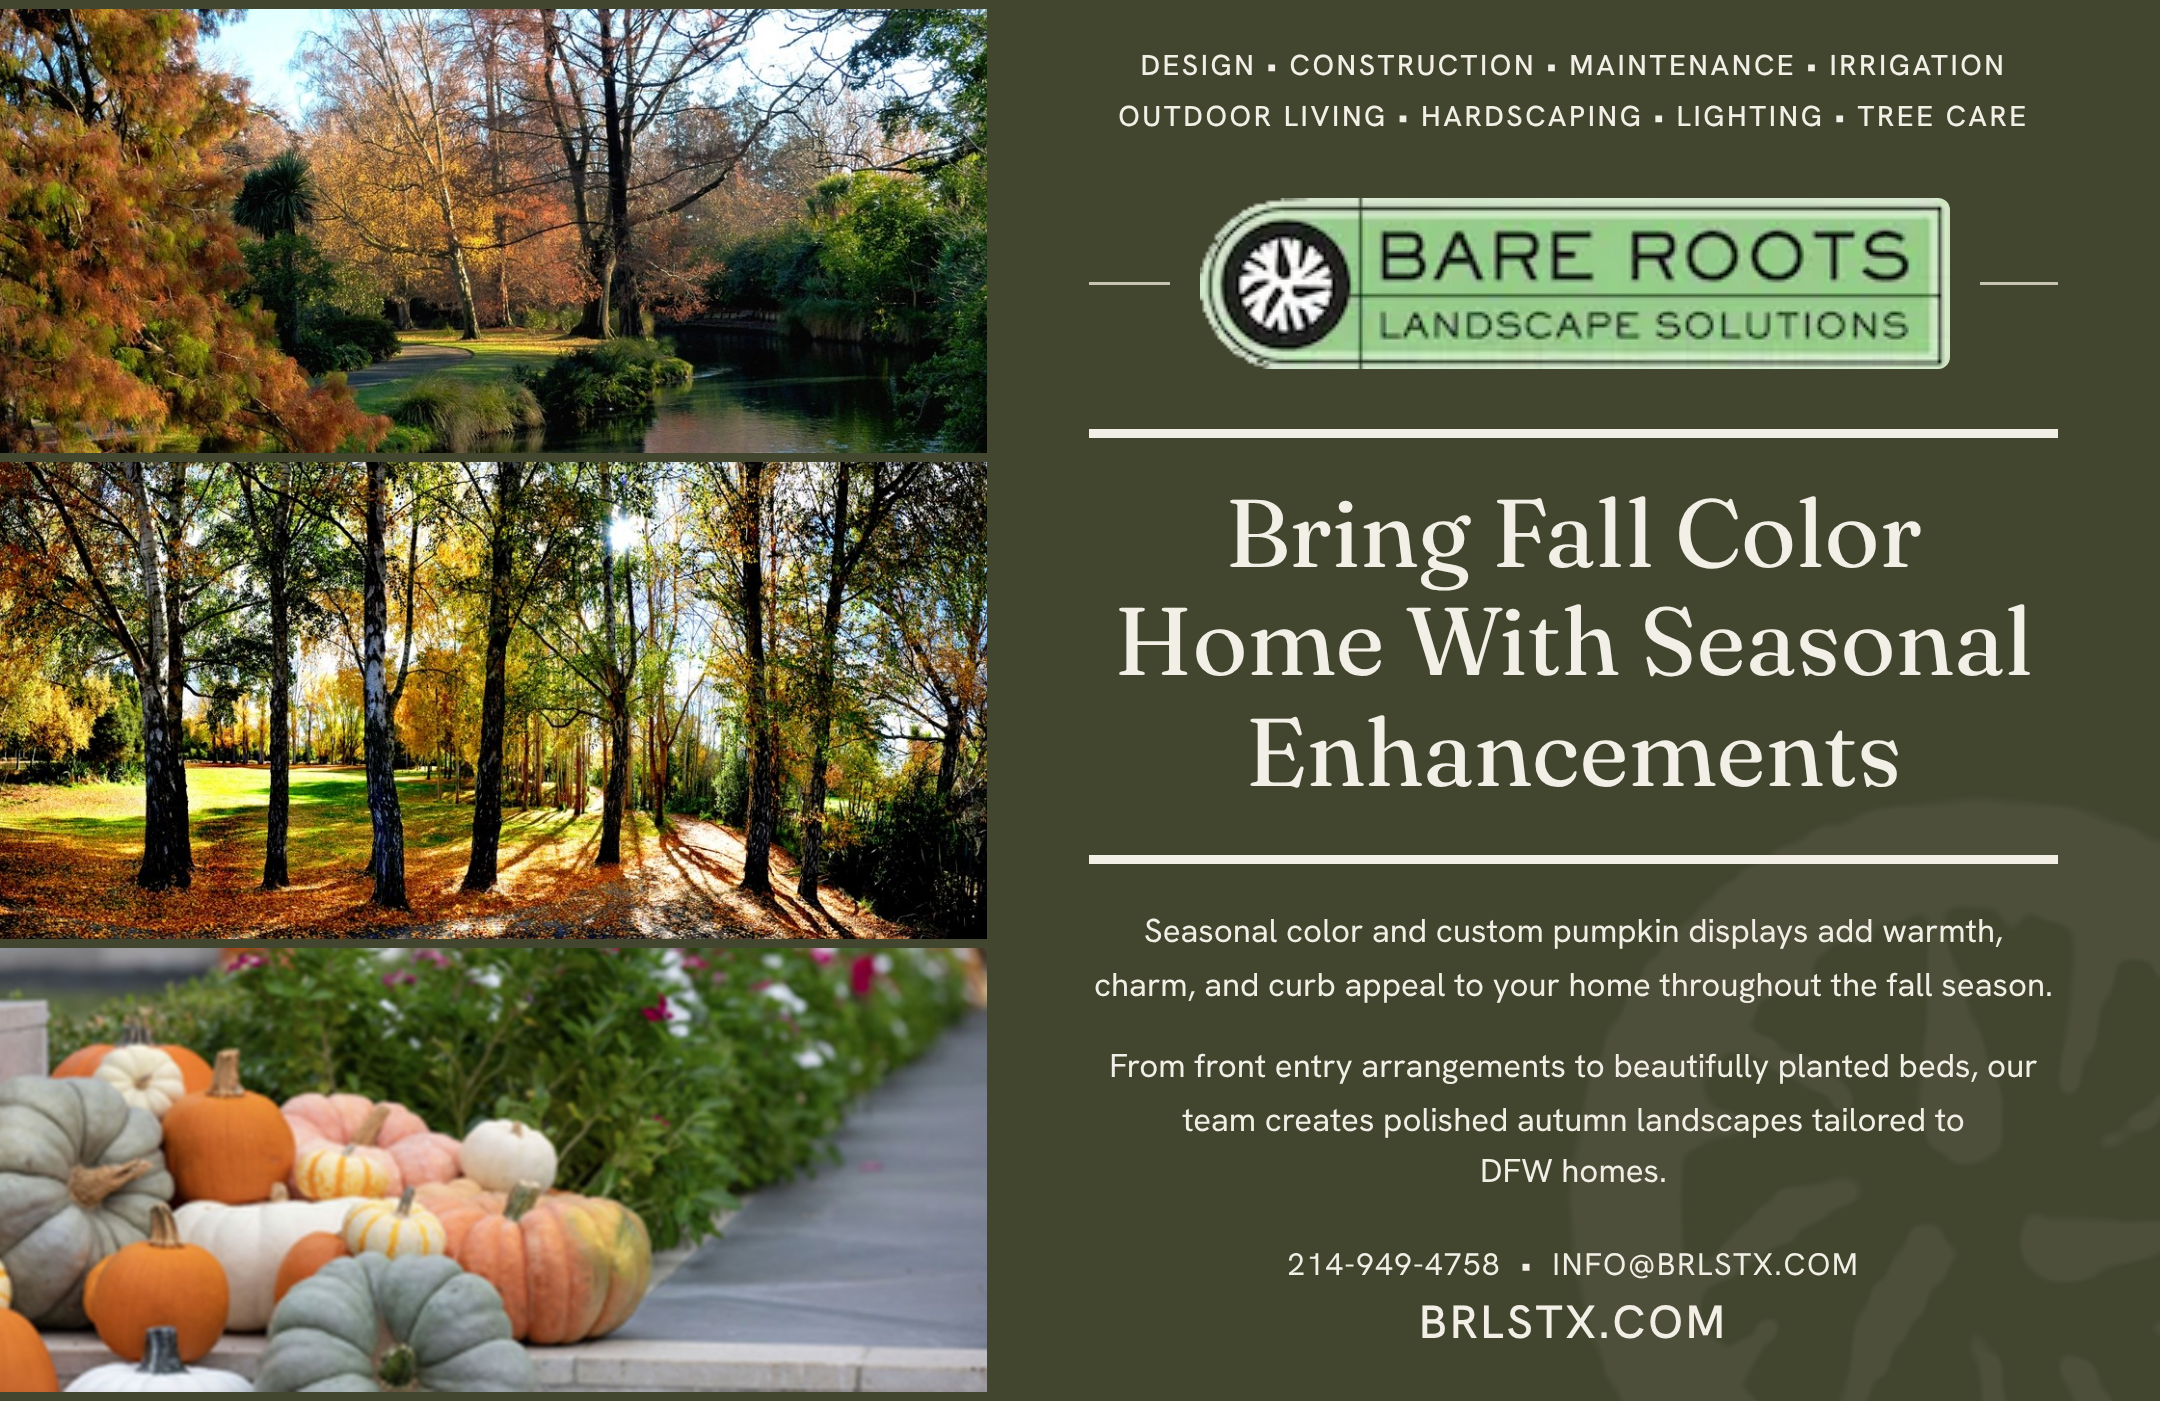
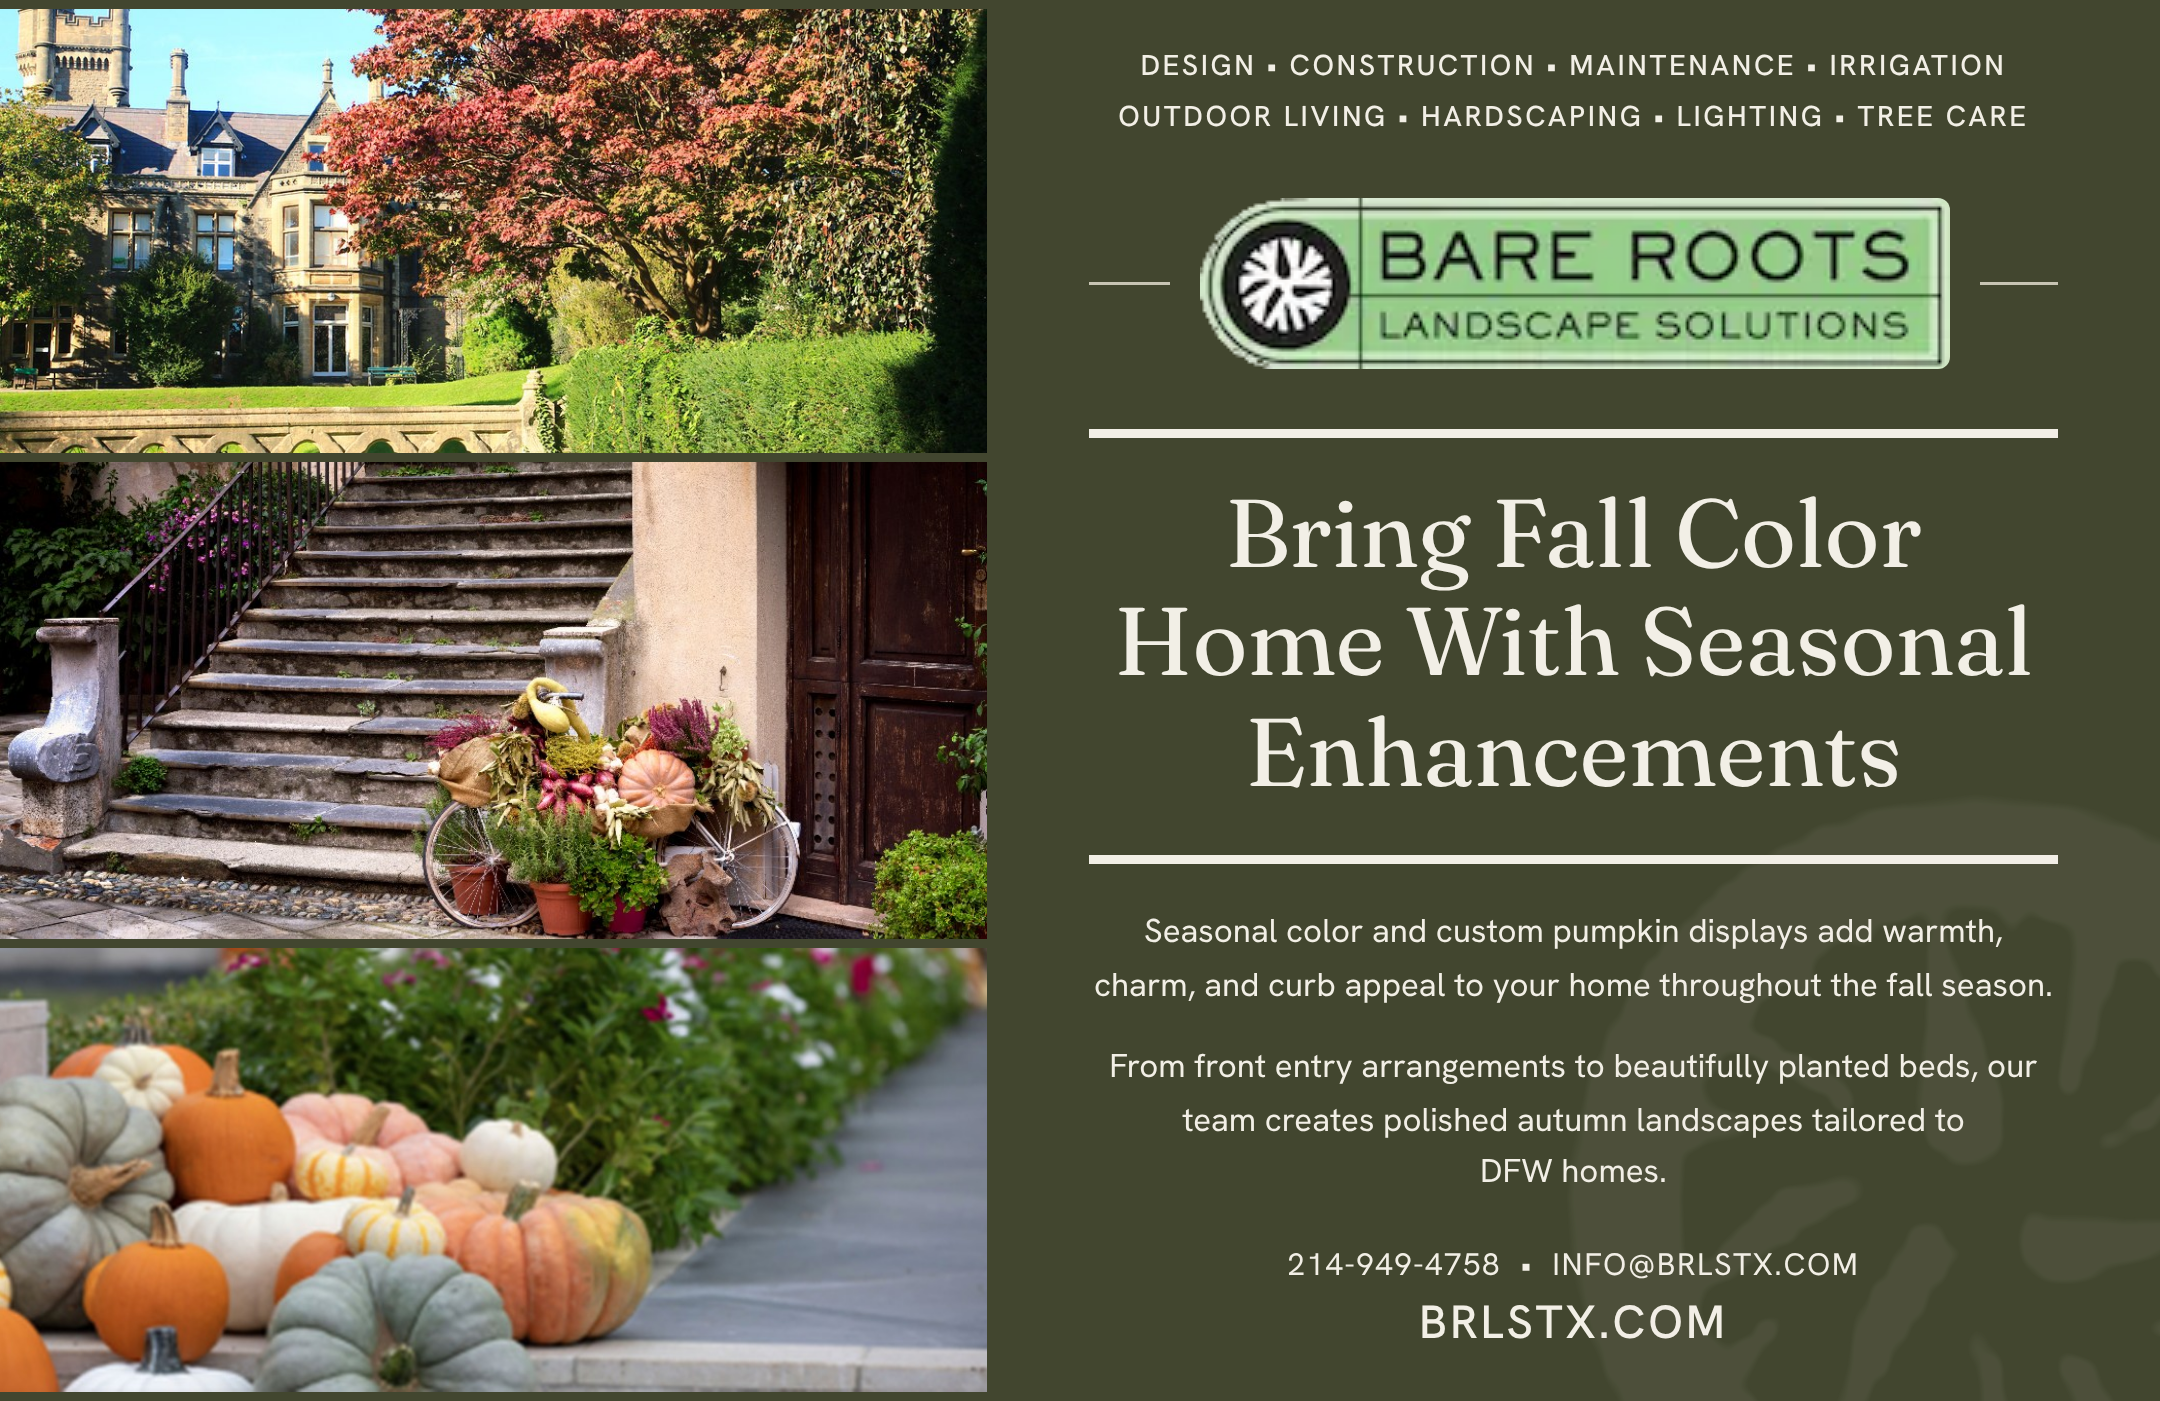
Use designed-landscape and fall-display photos on flyer
Replace the natural tree scenes with an estate garden (clipped hedges,
balustrade, fall maple) and a styled front-entry fall display so the
photos match the seasonal enhancements copy. Update CREDITS.md.

Claude-Session: https://claude.ai/code/session_0117pxYqYpLQnCBMpRMYt127

Changed region(s): [[0.0, 0.0, 0.4653, 0.6752]]

diff --git a/bare-roots-fall-flyer/flyer.html b/bare-roots-fall-flyer/flyer.html
@@ -28,8 +28,8 @@
   }
   .photos { display: grid; grid-template-rows: 148px 159px 148px; row-gap: 3px; padding: 3px 0 3px; background: var(--olive); }
   .photos div { background-size: cover; background-position: center; }
-  .p1 { background-image: url(images/photo-1-autumn-garden.jpg); background-position: 50% 55%; }
-  .p2 { background-image: url(images/photo-2-fall-birches.jpg); background-position: 50% 50%; }
+  .p1 { background-image: url(images/photo-1-estate-garden.jpg); background-position: 50% 45%; }
+  .p2 { background-image: url(images/photo-2-entry-display.jpg); background-position: 50% 70%; }
   .p3 { background-image: url(images/photo-3-pumpkins.jpg); }
 
   .panel { position: relative; padding: 14px 34px 16px; text-align: center; display: flex; flex-direction: column; align-items: center; }

diff --git a/bare-roots-fall-flyer/images/CREDITS.md b/bare-roots-fall-flyer/images/CREDITS.md
@@ -2,7 +2,7 @@
 
 | File | Source | License |
 | --- | --- | --- |
-| `photo-1-autumn-garden.jpg` | "Quietly flows Avon" (Christchurch, NZ), rawpixel, https://www.rawpixel.com/image/4023708/photo-image-tree-plant-forest | CC0 1.0 |
-| `photo-2-fall-birches.jpg` | "Changing seasons", rawpixel, https://www.rawpixel.com/image/4024627/changing-seasons | CC0 1.0 |
+| `photo-1-estate-garden.jpg` | "Insole Court and Gardens" by Dave Roberts3, https://www.flickr.com/photos/17454344@N08/51647938278 | CC0 1.0 |
+| `photo-2-entry-display.jpg` | "Exterior Pumpkins" by Joe deSousa, https://stocksnap.io/photo/exterior-pumpkins-VMT9EARJWR | CC0 1.0 |
 | `photo-3-pumpkins.jpg` | Cropped from the supplied Rosewood Landscape Group reference flyer | Not cleared; confirm rights before use |
 | `bare-roots-logo.png`, `emblem-watermark.png` | Bare Roots logo from brlstx.com | Client brand asset |
